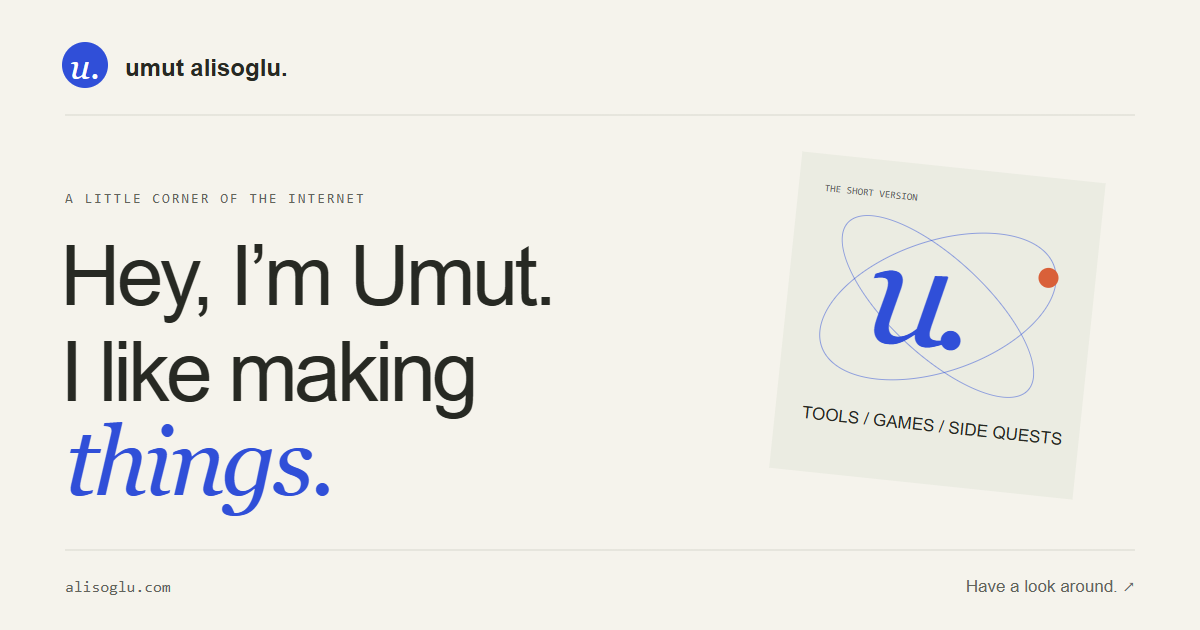
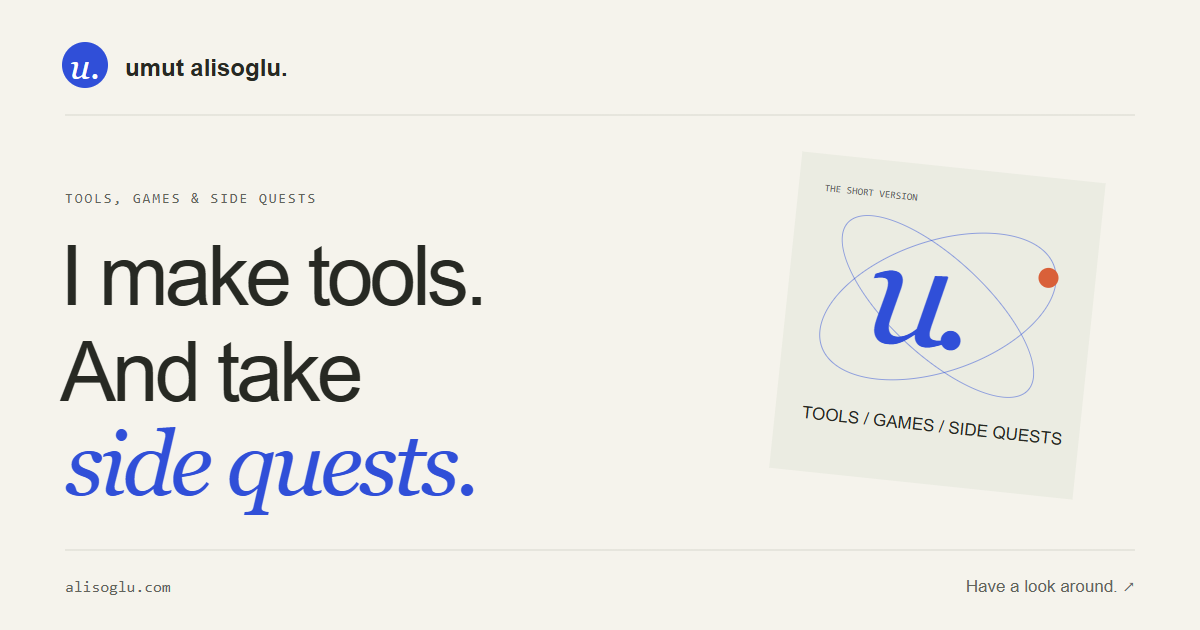
Give the personal site a voice grounded in real projects

diff --git a/index.html b/index.html
@@ -3,13 +3,13 @@
 <head>
   <meta charset="utf-8">
   <meta name="viewport" content="width=device-width,initial-scale=1">
-  <title>Umut Alisoglu — A little corner of the internet</title>
-  <meta name="description" content="Hey, I’m Umut. This is where I keep the tools, games and side projects I’m making. Have a look around.">
+  <title>Umut Alisoglu — Tools, games & side quests</title>
+  <meta name="description" content="I’m Umut Alisoglu. I make FileForge, Repodock and Skate Scape: local file tools, a Windows project launcher and a RuneScape skating fan game.">
   <meta name="theme-color" content="#f5f3ec">
   <link rel="canonical" href="https://alisoglu.com/">
   <meta property="og:type" content="website">
-  <meta property="og:title" content="Umut Alisoglu — A little corner of the internet">
-  <meta property="og:description" content="Tools, games and the occasional side quest. A personal space by Umut Alisoglu.">
+  <meta property="og:title" content="Umut Alisoglu — Tools, games & side quests">
+  <meta property="og:description" content="File tools, local apps and RuneScape on a skateboard. The projects and side quests of Umut Alisoglu.">
   <meta property="og:url" content="https://alisoglu.com/">
   <meta property="og:image" content="https://alisoglu.com/assets/social-card.png">
   <link rel="icon" href="/assets/monogram.svg" type="image/svg+xml">
@@ -21,37 +21,32 @@
   <main id="main" class="wrap personal-main">
     <section class="personal-hero" aria-labelledby="intro-title">
       <div class="personal-intro">
-        <p class="eyebrow"><span class="intro-dot" aria-hidden="true"></span> A LITTLE CORNER OF THE INTERNET</p>
-        <h1 id="intro-title">Hey, I’m Umut.<br>I like making<br><em>things.</em><span class="hello-star" aria-hidden="true">✳</span></h1>
-        <p class="intro-copy">Sometimes a useful tool. Sometimes a game.<br>Usually something I wanted to try.</p>
+        <p class="eyebrow"><span class="intro-dot" aria-hidden="true"></span> UMUT ALISOGLU / TOOLS, GAMES &amp; SIDE QUESTS</p>
+        <h1 id="intro-title">I make tools.<br>And take<br><em>side quests.</em></h1>
+        <p class="intro-copy">Hey, I’m Umut. I make tools for everyday files, a home for local projects, and a fan game that puts a skateboard in RuneScape. That last one took a detour.</p>
         <div class="personal-actions"><a class="button primary" href="#projects">Take a look around <span aria-hidden="true">↓</span></a><a class="text-link" href="/about/">A bit about me <span aria-hidden="true">↗</span></a></div>
       </div>
-      <aside class="desk-note" aria-label="A few things you’ll find here">
-        <div class="note-topline"><span>THE SHORT VERSION</span><span aria-hidden="true">↗</span></div>
-        <div class="orbit-mark" aria-hidden="true"><span>u.</span><i></i><b>hello!</b></div>
-        <p>A few useful things.<br>A few <em>just-because</em> things.</p>
-        <div class="note-bottomline"><span>TOOLS / GAMES / SIDE QUESTS</span><span aria-hidden="true">( + )</span></div>
-      </aside>
+      <figure class="quest-preview"><div class="quest-caption-top"><span>SIDE QUEST / SKATE SCAPE</span><span class="quest-label">Unofficial fan project</span></div><a href="/projects/skate-scape/" class="quest-image-link" aria-label="Meet Skate Scape, my RuneScape skating fan project"><img src="/assets/screenshots/skate-scape.jpg" width="1440" height="900" fetchpriority="high" alt="Skate Scape gameplay: a skater on a board in Lumbridge’s castle courtyard"></a><figcaption><strong>Gielinor. Now with grip tape.</strong><span>RuneScape meets skateboarding. Just because.</span><a href="/skate-scape/">Have a skate <span aria-hidden="true">↗</span></a></figcaption></figure>
     </section>
     <section class="personal-projects" id="projects" aria-labelledby="projects-title">
-      <div class="personal-section-heading"><div><p class="eyebrow">01 / THINGS I’VE BEEN MAKING</p><h2 id="projects-title">Out of my tabs.<br><em>Into yours.</em></h2></div><a class="text-link" href="/projects/">All project details <span aria-hidden="true">↗</span></a></div>
+      <div class="personal-section-heading"><div><p class="eyebrow">01 / THINGS I’VE BEEN MAKING</p><h2 id="projects-title">Three projects.<br><em>Different rabbit holes.</em></h2></div><a class="text-link" href="/projects/">All project details <span aria-hidden="true">↗</span></a></div>
       <div class="personal-project-grid">
         <article class="personal-project">
-          <a class="project-cover cover-fileforge" href="/tools/" aria-label="Try FileForge browser tools"><span class="cover-index">01 / THE USEFUL ONE</span><div class="file-stack" aria-hidden="true"><span class="paper-sheet paper-back">JPG</span><span class="paper-sheet paper-front"><img src="/assets/fileforge.svg" width="52" height="52" alt=""><b>PDF</b><small>all sorted.</small></span><span class="paper-sticker">keep it local ↗</span></div><span class="cover-bottom">FILEFORGE <span aria-hidden="true">↗</span></span></a>
-          <div class="personal-project-meta"><span>BROWSER TOOLS + WINDOWS</span><span>01</span></div><h3><a href="/projects/fileforge/">FileForge <span aria-hidden="true">↗</span></a></h3><p>For the “I just need to convert this file” moments. Images, PDFs and more, right in your browser.</p><a class="text-link" href="/tools/workspace/">Open the workspace →</a>
+          <a class="project-cover cover-fileforge project-cover-real" href="/tools/" aria-label="Try FileForge browser tools"><span class="cover-index">01 / FILES, KEPT LOCAL</span><div class="real-preview-frame"><img src="/assets/screenshots/fileforge.jpg" alt="FileForge’s connected workspace with three sample PDF pages ready to reorder" loading="lazy"></div><span class="cover-bottom">FILEFORGE <span aria-hidden="true">↗</span></span></a>
+          <div class="personal-project-meta"><span>BROWSER TOOLS + WINDOWS</span><span>01</span></div><h3><a href="/projects/fileforge/">FileForge <span aria-hidden="true">↗</span></a></h3><p>PDFs, photos, Word files and slides. The boring file jobs, handled in your browser. Your files stay with you.</p><a class="text-link" href="/tools/workspace/">Open the workspace →</a>
         </article>
         <article class="personal-project">
-          <a class="project-cover cover-repodock" href="/projects/repodock/" aria-label="Explore Repodock"><span class="cover-index">02 / LESS TERMINAL JUGGLING</span><div class="repodock-preview"><img src="/assets/repodock-dashboard.png" alt="Repodock’s dashboard for running local projects" loading="lazy"></div><span class="cover-bottom">REPODOCK <span aria-hidden="true">↗</span></span></a>
-          <div class="personal-project-meta"><span>WINDOWS APP</span><span>02</span></div><h3><a href="/projects/repodock/">Repodock <span aria-hidden="true">↗</span></a></h3><p>One place to run local GitHub projects and see what they’re doing. Fewer terminal windows to lose.</p><a class="text-link" href="/projects/repodock/">Have a closer look →</a>
+          <a class="project-cover cover-repodock" href="/projects/repodock/" aria-label="Explore Repodock"><span class="cover-index">02 / REPOS, READY TO RUN</span><div class="repodock-preview"><img src="/assets/repodock-dashboard.png" alt="Repodock’s dashboard for running local projects" loading="lazy"></div><span class="cover-bottom">REPODOCK <span aria-hidden="true">↗</span></span></a>
+          <div class="personal-project-meta"><span>WINDOWS APP</span><span>02</span></div><h3><a href="/projects/repodock/">Repodock <span aria-hidden="true">↗</span></a></h3><p>Find a GitHub project, give it a home on your desktop, and run it from one dashboard. Made for Windows.</p><a class="text-link" href="/projects/repodock/">Have a closer look →</a>
         </article>
         <article class="personal-project">
-          <a class="project-cover cover-skate" href="/projects/skate-scape/" aria-label="Explore Skate Scape, a fan-made browser game"><span class="cover-index">03 / THE SIDE QUEST</span><div class="skate-drawing" aria-hidden="true"><svg viewBox="0 0 300 200" fill="none"><path d="M20 165H280M38 141H259M66 118H234M101 95H200M150 60L38 184M150 60L262 184M150 60V184" stroke="currentColor" opacity=".18"/><g transform="rotate(-28 150 100)"><rect x="65" y="64" width="175" height="62" rx="31" fill="#ecf3b8" stroke="currentColor" stroke-width="2"/><path d="M99 65V126M206 65V126" stroke="currentColor" stroke-width="2"/><circle cx="103" cy="140" r="10" fill="currentColor"/><circle cx="200" cy="140" r="10" fill="currentColor"/><path d="M103 125V132M200 125V132M140 95H170M155 80V110" stroke="currentColor" stroke-width="3"/></g><path d="M40 63L66 50M36 88L55 80M227 153L252 142" stroke="currentColor" stroke-width="2" stroke-linecap="round"/></svg></div><span class="skate-sticker">just one more run.</span><span class="cover-bottom">SKATE SCAPE <span aria-hidden="true">↗</span></span></a>
-          <div class="personal-project-meta"><span>BROWSER GAME / FAN PROJECT</span><span>03</span></div><h3><a href="/projects/skate-scape/">Skate Scape <span aria-hidden="true">↗</span></a></h3><p>A skating game with tricks, combos and a world to roam. A fan project made for the fun of it. Go have a play.</p><a class="text-link" href="/skate-scape/">Play in your browser →</a>
+          <a class="project-cover cover-skate project-cover-game" href="/projects/skate-scape/" aria-label="Explore Skate Scape, an unofficial fan project"><img src="/assets/screenshots/skate-scape.jpg" width="1440" height="900" loading="lazy" alt="Skating through Lumbridge in Skate Scape"><span class="game-cover-label">03 / GIELINOR, ON A BOARD</span><span class="game-cover-bottom">SKATE SCAPE <span aria-hidden="true">↗</span></span></a>
+          <div class="personal-project-meta"><span>BROWSER GAME / FAN PROJECT</span><span>03</span></div><h3><a href="/projects/skate-scape/">Skate Scape <span aria-hidden="true">↗</span></a></h3><p>Tony Hawk-style tricks in the 2009 RuneScape world. An unofficial fan project with a very different route through Lumbridge.</p><a class="text-link" href="/skate-scape/">Play in your browser →</a>
         </article>
       </div>
     </section>
-    <aside class="personal-tool-note" aria-label="Free browser tools"><div><h2>Small tools. No sign-up.</h2><p>For the file you need to convert, and the data you need to untangle. Everything runs on your device.</p></div><nav aria-label="Document shortcuts"><a href="/tools/word-to-pdf/">Word → PDF ↗</a><a href="/tools/powerpoint-to-pdf/">PowerPoint → PDF ↗</a><a href="/tools/">All free tools →</a></nav></aside><section class="personal-about" id="about" aria-labelledby="about-title"><div><p class="eyebrow">02 / BEHIND THE TABS</p><h2 id="about-title">A place to make<br><em>room for ideas.</em></h2></div><div><p>I’m Umut Alisoglu. This site is a home for the things I’m working on: little fixes for everyday annoyances, apps I want to use, and experiments that got out of hand.</p><p>I like keeping things straightforward. Try something, see what works, make it a little better.</p><a class="text-link" href="/about/">More about me <span aria-hidden="true">↗</span></a></div></section>
-    <section class="personal-contact" aria-labelledby="hello-title"><div><p class="eyebrow">03 / LEAVE A TAB OPEN</p><h2 id="hello-title">Got something<br><em>on your mind?</em></h2><p>An idea, a question, a bug you found. I’d like to hear it.</p></div><a class="hello-link" href="mailto:umut@alisoglu.com">Say hello <span aria-hidden="true">↗</span><small>umut@alisoglu.com</small></a></section>
+    <aside class="personal-tool-note" aria-label="Free browser tools"><div><h2>Small tools. No sign-up.</h2><p>For the file you need to convert, and the data you need to untangle. Everything runs on your device.</p></div><nav aria-label="Document shortcuts"><a href="/tools/word-to-pdf/">Word → PDF ↗</a><a href="/tools/powerpoint-to-pdf/">PowerPoint → PDF ↗</a><a href="/tools/">All free tools →</a></nav></aside><section class="personal-about" id="about" aria-labelledby="about-title"><div><p class="eyebrow">02 / BEHIND THE TABS</p><h2 id="about-title">Fewer clicks.<br><em>More room to play.</em></h2></div><div><p>Sometimes I want fewer clicks. Sometimes I want a skateboard in RuneScape. Both end up here.</p><p>I keep the useful stuff easy to find and leave room for the projects that are just for fun. You can try the tools, play the game, or have a look through the code.</p><a class="text-link" href="/about/">More about me <span aria-hidden="true">↗</span></a></div></section>
+    <section class="personal-contact" aria-labelledby="hello-title"><div><p class="eyebrow">03 / SAY HELLO</p><h2 id="hello-title">Got something<br><em>on your mind?</em></h2><p>An idea, a question, a bug you found. I’d like to hear it.</p></div><a class="hello-link" href="mailto:umut@alisoglu.com">Say hello <span aria-hidden="true">↗</span><small>umut@alisoglu.com</small></a></section>
   </main>
   <site-footer></site-footer>
 </body>

diff --git a/src/site/personal.css b/src/site/personal.css
@@ -114,4 +114,38 @@
 @media(max-width:1000px){.hub-header nav{gap:18px}.personal-hero{gap:35px}.personal-main h1{font-size:73px}.hello-star{font-size:76px;margin-left:10px}.desk-note{padding-inline:20px}.orbit-mark:before{width:190px}.orbit-mark:after{width:200px}.orbit-mark i{right:9px}.personal-project-grid{gap:20px}.project-cover{height:250px}.cover-index{font-size:7px;left:15px;right:15px}.personal-project-meta{font-size:7px}.personal-about{gap:50px}}
 @media(max-width:760px){.wrap{width:calc(100% - 48px)}.hub-header{padding-block:20px;gap:20px}.hub-header nav{width:100%;margin:0;gap:20px;justify-content:flex-start}.hub-header nav a{font-size:12px}.personal-hero{grid-template-columns:1.3fr 1fr;gap:25px;padding:62px 0 65px}.personal-main h1{font-size:61px;letter-spacing:-3.8px}.personal-main h1 em{letter-spacing:-3px}.hello-star{font-size:58px;margin-left:12px}.personal-main .eyebrow{font-size:8px;letter-spacing:.6px}.intro-copy{font-size:14px}.desk-note{padding:18px 16px;margin-right:4px}.desk-note>p{font-size:20px}.note-topline{font-size:7px}.note-bottomline{font-size:7px;letter-spacing:0}.orbit-mark{height:165px}.orbit-mark>span{font-size:125px}.orbit-mark:before{width:150px;height:100px}.orbit-mark:after{width:170px;height:80px}.orbit-mark i{right:0;top:50px;width:11px;height:11px}.orbit-mark b{font-size:20px;bottom:7px}.personal-actions{gap:18px}.personal-project-grid{grid-template-columns:1fr;gap:36px}.project-cover{height:300px}.file-stack{inset:50px 0}.paper-sheet{width:130px;height:165px}.paper-sticker{right:20%;bottom:5px}.repodock-preview{top:62px;left:11%;width:85%;height:195px}.skate-drawing{inset:35px 15% 30px}.skate-sticker{right:16%;bottom:53px}.cover-index{font-size:9px;left:23px;right:23px}.cover-bottom{left:23px;right:23px}.personal-project-meta{font-size:8px;margin-top:17px}.personal-project>p{max-width:510px}.personal-projects{padding-block:35px 45px}.personal-section-heading{gap:20px}.personal-about{gap:30px;padding-block:43px}.personal-about>div>p:not(.eyebrow){font-size:14px}.personal-contact{padding-block:40px;gap:30px}.hello-link{font-size:32px;min-width:200px}.hello-link>span{margin-left:30px}.about-intro{padding-block:60px;gap:25px}.about-intro h1{font-size:54px;letter-spacing:-3.5px}.about-initial{font-size:125px;width:170px;height:170px}.new-footer{grid-template-columns:1fr;gap:25px}.new-footer>div{justify-content:flex-start;gap:12px 23px}}
 @media(max-width:540px){.hub-header .wordmark{font-size:19px}.hub-header nav{gap:15px 21px}.hub-header nav a{font-size:11px}.hub-header .nav-contact{margin-left:auto}.personal-hero{grid-template-columns:1fr;padding-top:42px;gap:40px}.personal-main h1{font-size:clamp(57px,12.5vw,72px)}.personal-main .eyebrow{margin-bottom:22px}.intro-copy{margin-block:23px}.personal-actions{gap:22px}.personal-actions .button{padding:12px 15px;gap:16px}.personal-main .text-link{font-size:11px;gap:8px}.desk-note{width:min(100% - 12px,350px);margin:0 auto;padding:21px 25px}.orbit-mark{height:150px}.orbit-mark:before{width:200px;height:95px}.orbit-mark:after{width:210px;height:85px}.orbit-mark>span{font-size:127px}.orbit-mark i{right:25px;top:46px}.orbit-mark b{left:15px}.desk-note>p{font-size:23px;margin:14px 0 20px}.note-topline{font-size:8px}.note-bottomline{font-size:8px}.personal-section-heading{align-items:start;flex-direction:column;gap:20px;margin-bottom:26px}.personal-main h2{font-size:36px}.personal-section-heading .eyebrow{margin-bottom:15px}.project-cover{height:275px}.paper-sticker{right:8%}.repodock-preview{left:9%;top:61px;height:171px;width:100%}.skate-drawing{inset:35px 5% 30px}.personal-about{grid-template-columns:1fr;gap:25px}.personal-contact{flex-direction:column;align-items:flex-start;gap:23px}.hello-link{font-size:36px;min-width:230px;margin:0 0 5px}.about-intro{grid-template-columns:1fr;padding-block:45px;gap:35px}.about-intro h1{font-size:clamp(46px,10vw,61px);letter-spacing:-3px}.about-margin{display:flex;gap:25px;text-align:left;align-items:center;transform:none}.about-initial{font-size:75px;letter-spacing:-7px;width:100px;height:100px;flex-shrink:0;padding:5px 10px 0 0;text-align:center;transform:rotate(-8deg)}.about-margin p{margin:0}.about-margin p span{font-size:9px}.personal-about-page .project-row{grid-template-columns:46px minmax(0,1fr) 18px;gap:15px;padding-inline:0}.personal-about-page .project-mini{height:46px;font-size:30px}.personal-about-page .project-mini img{width:29px;height:29px}.personal-about-page .project-row h3{font-size:22px}.personal-about-page .project-row p{font-size:12px}.personal-about-page .project-label{font-size:8px}.new-footer .footer-note{flex-wrap:wrap}}
-@media(prefers-reduced-motion:reduce){html{scroll-behavior:auto}.project-cover,.hello-link>span,.button{transition:none}.project-cover:hover,.button:hover,.hello-link:hover>span{transform:none}}
+/* Personal pages: actual project work, rather than a decorative stand-in. */
+.personal-hero{grid-template-columns:minmax(0,1.1fr) minmax(0,1fr);gap:64px;padding-block:76px 78px}
+.personal-home .personal-main h1{font-size:clamp(62px,6.1vw,84px);letter-spacing:-4.6px;line-height:1.04}
+.personal-home .intro-copy{max-width:450px;line-height:1.85;margin-block:25px;font-size:15px}
+.quest-preview{min-width:0;margin:10px 0 0;transform:rotate(1.5deg);border:1px solid #c7c9bb;border-radius:4px;background:#eeeee5;box-shadow:5px 6px 0 #d9dccd;padding:16px}
+.quest-caption-top{display:flex;align-items:center;justify-content:space-between;gap:12px;font:9px/1.6 var(--mono);color:#4c5548;margin-bottom:14px;letter-spacing:.45px}
+.quest-label{font-size:8px;letter-spacing:0;border:1px solid #c7cebb;border-radius:3px;padding:4px 6px;white-space:nowrap}
+.quest-image-link{display:block;overflow:hidden;background:#203b30}
+.quest-image-link img{display:block;width:100%;height:auto;aspect-ratio:1.5;object-fit:cover}
+.quest-preview figcaption{padding:17px 3px 3px;display:grid;grid-template-columns:1fr auto;gap:6px 15px;align-items:start}
+.quest-preview figcaption strong{font:500 20px/1.25 var(--sans);letter-spacing:-.6px;grid-column:1/-1}
+.quest-preview figcaption>span{font-size:11px;line-height:1.7;color:var(--muted)}
+.quest-preview figcaption>a{font-size:11px;font-weight:600;display:inline-flex;align-items:center;gap:9px;white-space:nowrap}
+.quest-preview a:hover{color:var(--accent)}
+.project-cover-real .real-preview-frame{position:absolute;inset:52px 20px 47px;overflow:hidden;border:5px solid #fafbf6;border-radius:3px;box-shadow:2px 5px 15px #34463015;transform:rotate(-4deg);background:white}
+.real-preview-frame img{display:block;width:100%;height:100%;object-fit:cover;object-position:center 46%}
+.project-cover-game>img{display:block;width:100%;height:100%;object-fit:cover;object-position:50% 50%;transition:transform .25s}
+.project-cover-game:hover>img{transform:scale(1.025)}
+.game-cover-label,.game-cover-bottom{position:absolute;left:17px;right:17px;color:#fffef3;font:9px/1.7 var(--mono);letter-spacing:.6px;text-shadow:0 1px 3px #000}
+.game-cover-label{top:17px;background:#173b31dc;padding:6px 9px;width:fit-content;max-width:calc(100% - 34px)}
+.game-cover-bottom{bottom:17px;display:flex;justify-content:space-between;align-items:center;background:#173b31dc;padding:8px 10px}
+.game-cover-bottom>span{font-size:20px;line-height:1}
+.personal-project-meta{font-size:9px;letter-spacing:.4px}.cover-index{font-size:9px}.personal-project>p{font-size:14px;line-height:1.8}.personal-project>.text-link{font-size:12px}
+.personal-main .eyebrow{font-size:10px;letter-spacing:.7px}.new-footer .footer-note{font-size:10px}.hub-header .wordmark small{font-size:10px}
+.about-profile-links{padding:28px;background:#ebece2;border:1px solid #d9dccd;border-radius:4px;align-self:center;max-width:360px;margin-left:auto;width:100%}
+.profile-handle{display:inline-block;color:var(--accent);font:italic 72px/1 Georgia,serif;letter-spacing:-7px;margin-bottom:16px}
+.about-profile-links>p{font-size:19px;letter-spacing:-.3px;line-height:1.5;margin:0 0 22px}
+.about-profile-links>p>span{display:block;font-size:12px;color:var(--muted);letter-spacing:0;margin-top:3px}
+.about-profile-links>a{display:flex;justify-content:space-between;gap:15px;align-items:center;font-size:11px;padding:13px 0;border-top:1px solid #cfd2c3}
+.about-profile-links>a>span{color:var(--muted);overflow-wrap:anywhere;text-align:right}.about-profile-links>a:hover,.about-profile-links>a:hover>span{color:var(--accent)}
+.real-game-shot{margin:0;min-width:0}.real-game-shot img{display:block;width:100%;height:auto}.real-game-shot figcaption{font-size:10px;line-height:1.7;color:var(--muted);padding:11px 12px}
+@media(max-width:1000px){.personal-hero{gap:35px}.personal-home .personal-main h1{font-size:70px}.quest-preview{padding:12px}.quest-caption-top{font-size:8px;letter-spacing:0}.quest-label{font-size:7px}.quest-preview figcaption strong{font-size:18px}.quest-preview figcaption{grid-template-columns:1fr}.quest-preview figcaption strong{grid-column:auto}.quest-preview figcaption>a{margin-top:7px}.personal-project-meta{font-size:8px}}
+@media(max-width:760px){.personal-hero{grid-template-columns:1.15fr 1fr;gap:28px;padding-block:53px 60px}.personal-home .personal-main h1{font-size:59px;letter-spacing:-3.5px}.personal-home .intro-copy{font-size:14px}.quest-caption-top{flex-wrap:wrap;gap:8px}.quest-preview figcaption strong{font-size:18px}.quest-preview figcaption>span{font-size:11px}.quest-image-link img{aspect-ratio:1.15}.personal-main .eyebrow{font-size:9px}.about-profile-links{padding:23px}.personal-project-meta{font-size:9px}.cover-index{font-size:9px}}
+@media(max-width:540px){.personal-hero{grid-template-columns:1fr;gap:36px;padding-block:40px 50px}.personal-home .personal-main h1{font-size:clamp(56px,12.5vw,70px);letter-spacing:-3.5px}.personal-home .intro-copy{max-width:380px;font-size:15px}.quest-preview{margin:0 4px 0 0;padding:13px;transform:rotate(1deg)}.quest-caption-top{font-size:9px;flex-wrap:nowrap}.quest-label{font-size:7px}.quest-image-link img{aspect-ratio:1.5}.quest-preview figcaption strong{font-size:20px}.quest-preview figcaption{padding:16px 2px 3px;gap:7px}.quest-preview figcaption>a{margin-top:4px}.about-profile-links{margin:0;max-width:none}.profile-handle{font-size:59px;margin-bottom:10px}.personal-project>p{font-size:14px}}
+@media(prefers-reduced-motion:reduce){html{scroll-behavior:auto}.project-cover,.hello-link>span,.button,.project-cover-game>img{transition:none}.project-cover:hover,.button:hover,.hello-link:hover>span,.project-cover-game:hover>img{transform:none}}

diff --git a/about/index.html b/about/index.html
@@ -4,12 +4,12 @@
   <meta charset="utf-8">
   <meta name="viewport" content="width=device-width,initial-scale=1">
   <title>A bit about me — Umut Alisoglu</title>
-  <meta name="description" content="I’m Umut. I make browser tools, Windows apps and the occasional game. Here’s a little about the projects and the person behind them.">
+  <meta name="description" content="I’m Umut Alisoglu, the person behind FileForge, Repodock and Skate Scape. Local file tools, Windows apps and a RuneScape skating fan project.">
   <meta name="theme-color" content="#f5f3ec">
   <link rel="canonical" href="https://alisoglu.com/about/">
   <meta property="og:type" content="profile">
   <meta property="og:title" content="A bit about me — Umut Alisoglu">
-  <meta property="og:description" content="Tools, games and the occasional side quest. A little about the person behind alisoglu.com.">
+  <meta property="og:description" content="FileForge, Repodock, and a skateboard in Gielinor. A little about Umut Alisoglu and his projects.">
   <meta property="og:url" content="https://alisoglu.com/about/">
   <meta property="og:image" content="https://alisoglu.com/assets/social-card.png">
   <link rel="icon" href="/assets/monogram.svg" type="image/svg+xml">
@@ -19,9 +19,9 @@
 <body class="personal-about-page">
   <site-header></site-header>
   <main id="main" class="wrap personal-main">
-    <section class="about-intro" aria-labelledby="about-title"><div><p class="eyebrow">A BIT ABOUT ME</p><h1 id="about-title">Curiosity.<br>A few open tabs.<br><em>That’s the start.</em></h1></div><div class="about-margin"><span class="about-initial" aria-hidden="true">u.</span><p>Umut Alisoglu<br><span>The person behind this little corner.</span></p></div></section>
-    <section class="personal-about about-story" aria-labelledby="story-title"><div><p class="eyebrow">HELLO AGAIN</p><h2 id="story-title">I’m Umut.<br><em>I make stuff.</em></h2></div><div><p>Mostly software. Tools for files, apps for the desktop, and sometimes a game. This website gives those projects somewhere to live.</p><p>A lot of them start with a small annoyance. Converting a file shouldn’t mean sending it to a random website. Running a project shouldn’t mean hunting through terminal windows. And sometimes, I just want to see if an idea could be fun.</p><p>I like things that are easy to pick up and don’t get in the way. That’s what I’m aiming for here, too.</p></div></section>
-    <section class="about-project-list" id="work" aria-labelledby="work-title"><div class="personal-section-heading"><div><p class="eyebrow">WHAT THAT LOOKS LIKE</p><h2 id="work-title">Three different<br><em>rabbit holes.</em></h2></div><a class="text-link" href="/projects/">Project details ↗</a></div><div class="project-rows"><a class="project-row" href="/projects/fileforge/"><span class="project-mini tone-purple"><img src="/assets/fileforge.svg" width="38" height="38" alt=""></span><span><span class="project-label">FILES, SORTED</span><h3>FileForge</h3><p>Browser tools for images, PDFs, video and text, plus a Windows app.</p></span><span class="row-arrow" aria-hidden="true">↗</span></a><a class="project-row" href="/projects/repodock/"><span class="project-mini tone-blue" aria-hidden="true">r.</span><span><span class="project-label">A HOME FOR LOCAL PROJECTS</span><h3>Repodock</h3><p>A Windows dashboard for launching GitHub projects and keeping an eye on their logs.</p></span><span class="row-arrow" aria-hidden="true">↗</span></a><a class="project-row" href="/projects/skate-scape/"><span class="project-mini tone-mint" aria-hidden="true">↗</span><span><span class="project-label">JUST FOR THE FUN OF IT</span><h3>Skate Scape</h3><p>A browser skating game. Fan project, with plenty still to try.</p></span><span class="row-arrow" aria-hidden="true">↗</span></a></div></section>
+    <section class="about-intro" aria-labelledby="about-title"><div><p class="eyebrow">A BIT ABOUT ME</p><h1 id="about-title">Useful tools.<br>A fan game.<br><em>Whatever’s next.</em></h1></div><aside class="about-profile-links" aria-label="Find me online"><span class="profile-handle">u.</span><p>Umut Alisoglu<span>Tools, games &amp; side quests.</span></p><a href="https://github.com/UmutAlisoglu">GitHub <span>@UmutAlisoglu ↗</span></a><a href="mailto:umut@alisoglu.com">Email <span>umut@alisoglu.com ↗</span></a></aside></section>
+    <section class="personal-about about-story" aria-labelledby="story-title"><div><p class="eyebrow">HELLO AGAIN</p><h2 id="story-title">I’m Umut.<br><em>I make stuff.</em></h2></div><div><p>I’m the person behind FileForge, Repodock and Skate Scape. Two practical projects and one very particular idea: what if you could skate around the RuneScape world?</p><p>FileForge is for the everyday file jobs: convert something, sort some pages, move on. Repodock gives GitHub projects a local dashboard. Skate Scape takes Tony Hawk-style tricks into 2009 Gielinor. It’s an unofficial fan project, made for the fun of it.</p><p>The browser tools run on your device, without an account or file upload. The desktop apps have public source and downloads. This site keeps the projects together, with enough detail to get started.</p></div></section>
+    <section class="about-project-list" id="work" aria-labelledby="work-title"><div class="personal-section-heading"><div><p class="eyebrow">WHAT THAT LOOKS LIKE</p><h2 id="work-title">Three different<br><em>rabbit holes.</em></h2></div><a class="text-link" href="/projects/">Project details ↗</a></div><div class="project-rows"><a class="project-row" href="/projects/fileforge/"><span class="project-mini tone-purple"><img src="/assets/fileforge.svg" width="38" height="38" alt=""></span><span><span class="project-label">FILES, SORTED</span><h3>FileForge</h3><p>Browser tools for images, PDFs, video and text, plus a Windows app.</p></span><span class="row-arrow" aria-hidden="true">↗</span></a><a class="project-row" href="/projects/repodock/"><span class="project-mini tone-blue" aria-hidden="true">r.</span><span><span class="project-label">A HOME FOR LOCAL PROJECTS</span><h3>Repodock</h3><p>A Windows dashboard for launching GitHub projects and keeping an eye on their logs.</p></span><span class="row-arrow" aria-hidden="true">↗</span></a><a class="project-row" href="/projects/skate-scape/"><span class="project-mini tone-mint" aria-hidden="true">↗</span><span><span class="project-label">JUST FOR THE FUN OF IT</span><h3>Skate Scape</h3><p>Tony Hawk-style tricks in the 2009 RuneScape world. An unofficial fan project.</p></span><span class="row-arrow" aria-hidden="true">↗</span></a></div></section>
     <section class="personal-contact" id="contact" aria-labelledby="hello-title"><div><p class="eyebrow">KEEP IN TOUCH</p><h2 id="hello-title">Always room for<br><em>a conversation.</em></h2><p>You can find the code on <a class="text-link" href="https://github.com/UmutAlisoglu">GitHub ↗</a>, or drop me an email.</p></div><a class="hello-link" href="mailto:umut@alisoglu.com">Say hello <span aria-hidden="true">↗</span><small>umut@alisoglu.com</small></a></section>
   </main>
   <site-footer></site-footer>

diff --git a/projects/skate-scape/index.html b/projects/skate-scape/index.html
@@ -21,7 +21,7 @@
   <site-header></site-header>
   <main id="main" class="wrap project-page">
   <div class="breadcrumbs"><a href="/projects/">Projects</a><span aria-hidden="true">/</span><span>Skate Scape</span></div>
-  <section class="project-hero"><div><p class="eyebrow">BROWSER GAME / FAN PROJECT</p><h1>Skate Scape<span class="accent-dot">.</span><br><em>Find your line.</em></h1><p>An unofficial fan-made skateboarding game built around movement, tricks and the urge to try one more line. Play it in your browser.</p><span class="development-badge">Fan project · best on a computer</span><div class="hero-actions game-launch"><a class="button primary" href="/skate-scape/">Play Skate Scape ↗</a><a class="quiet-link" href="https://github.com/UmutAlisoglu/skate-scape">Code & issues ↗</a></div></div><div class="skate-illustration" role="img" aria-label="Project illustration of a skateboard over a purple ramp; not a gameplay screenshot"><span class="art-label">SKATE SCAPE / FAN PROJECT</span><span class="skate-orbit" aria-hidden="true">✳</span><div class="skate-ramp" aria-hidden="true"></div><div class="skateboard" aria-hidden="true"><span></span><i></i><i></i></div><strong>One more<br><em>try.</em></strong><span class="art-bottom">PROJECT ILLUSTRATION · UNOFFICIAL FAN PROJECT</span></div></section>
+  <section class="project-hero"><div><p class="eyebrow">BROWSER GAME / FAN PROJECT</p><h1>Skate Scape<span class="accent-dot">.</span><br><em>Find your line.</em></h1><p>An unofficial fan-made skateboarding game built around movement, tricks and the urge to try one more line. Play it in your browser.</p><span class="development-badge">Fan project · best on a computer</span><div class="hero-actions game-launch"><a class="button primary" href="/skate-scape/">Play Skate Scape ↗</a><a class="quiet-link" href="https://github.com/UmutAlisoglu/skate-scape">Code & issues ↗</a></div></div><figure class="project-screenshot real-game-shot"><a href="/skate-scape/" aria-label="Play Skate Scape"><img src="/assets/screenshots/skate-scape.jpg" width="1440" height="900" alt="Actual Skate Scape gameplay in Lumbridge’s castle courtyard" loading="lazy"></a><figcaption>Actual gameplay · Skate Scape is an unofficial fan project.</figcaption></figure></section>
   <div class="project-facts"><span><strong>Play with</strong>Keyboard or a standard gamepad</span><span><strong>First visit</strong>About 95 MB of game data</span><span><strong>Status</strong>Unofficial fan project</span></div>
   <section class="story-section"><div><p class="eyebrow">THE IDEA</p><h2>A place to explore.<br>A reason to try again.</h2></div><div><p>Skate Scape combines an open 3D world with flips, grabs, grinds, manuals and trick combinations. Drop obstacles, set a session marker, try challenges and find a new line.</p><p>The game lives in its own repository. It’s a personal fan project, made for the fun of exploring a familiar world on a skateboard.</p><p>It is an unofficial fan project. <a class="text-link" href="https://github.com/UmutAlisoglu/skate-scape/blob/main/NOTICE.md">See the project’s credits and notices ↗</a></p></div></section>
   <section class="release-panel"><div><p class="eyebrow">BEFORE YOU ROLL</p><h2>Give the world a moment.</h2><p>Use Chrome, Edge or Firefox on a computer. The first visit downloads about 95 MB from the 2009scape project on GitLab and builds the world on your device. Loading time depends on your connection and computer.</p><p>The game caches data locally for later visits and saves progress in the browser. Clearing this site’s browser data can remove both cached game data and progress.</p><a class="text-link" href="https://github.com/UmutAlisoglu/skate-scape#play-it">Current loading & setup notes ↗</a></div><div><h2>The first few moves.</h2><dl class="controls-list"><div><dt>W / S / A, D</dt><dd>Push, brake and steer</dd></div><div><dt>Space</dt><dd>Ollie; hold to charge</dd></div><div><dt>Q / E / C</dt><dd>Flip, shove-it and grab tricks in the air</dd></div><div><dt>T / Tab</dt><dd>Teleport menu / world map</dd></div><div><dt>Escape / H</dt><dd>Pause / help</dd></div></dl><a class="text-link" href="https://github.com/UmutAlisoglu/skate-scape/blob/main/docs/GAMEPLAY.md">Full controls & gameplay guide ↗</a></div></section>

diff --git a/games/index.html b/games/index.html
@@ -19,7 +19,7 @@
 </head>
 <body>
   <site-header></site-header>
-  <main id="main" class="wrap directory-page"><div class="page-intro"><p class="eyebrow">ROOM FOR A LITTLE PLAY</p><h1>Serious about<br><em>having some fun.</em></h1><p>An unofficial fan skating project and a tiny idea experiment. Pick something playful and give it a go.</p></div><div class="games-feature"><div><div class="skate-illustration" role="img" aria-label="Project illustration of a skateboard over a purple ramp; not a gameplay screenshot"><span class="art-label">SKATE SCAPE / FAN PROJECT</span><span class="skate-orbit" aria-hidden="true">✳</span><div class="skate-ramp" aria-hidden="true"></div><div class="skateboard" aria-hidden="true"><span></span><i></i><i></i></div><strong>One more<br><em>try.</em></strong><span class="art-bottom">PROJECT ILLUSTRATION · UNOFFICIAL FAN PROJECT</span></div></div><div><span class="development-badge">Fan project · best on desktop</span><h2>Skate Scape</h2><p>An arcade skating game with tricks, combos and places to explore. Play on a computer with a keyboard or gamepad. The first visit downloads about 95 MB of game data and builds the world in your browser.</p><div class="hero-actions"><a class="button primary" href="/skate-scape/">Play Skate Scape ↗</a><a class="text-link" href="/projects/skate-scape/">Guide & project details →</a></div></div></div><section class="workshop-note"><div><p class="eyebrow">PLAY WITH AN IDEA</p><h2>An annoyance today. An app tomorrow.</h2><p>The idea machine turns an everyday frustration into a starting prompt. It runs locally, with no account or AI service call.</p><a class="text-link" href="/idea-machine/">Give it a spin →</a></div></section></main>
+  <main id="main" class="wrap directory-page"><div class="page-intro"><p class="eyebrow">ROOM FOR A LITTLE PLAY</p><h1>Serious about<br><em>having some fun.</em></h1><p>An unofficial fan skating project and a tiny idea experiment. Pick something playful and give it a go.</p></div><div class="games-feature"><div><figure class="project-screenshot real-game-shot"><a href="/skate-scape/" aria-label="Play Skate Scape"><img src="/assets/screenshots/skate-scape.jpg" width="1440" height="900" alt="Actual Skate Scape gameplay in Lumbridge’s castle courtyard" loading="lazy"></a><figcaption>Actual gameplay · Skate Scape is an unofficial fan project.</figcaption></figure></div><div><span class="development-badge">Fan project · best on desktop</span><h2>Skate Scape</h2><p>An arcade skating game with tricks, combos and places to explore. Play on a computer with a keyboard or gamepad. The first visit downloads about 95 MB of game data and builds the world in your browser.</p><div class="hero-actions"><a class="button primary" href="/skate-scape/">Play Skate Scape ↗</a><a class="text-link" href="/projects/skate-scape/">Guide & project details →</a></div></div></div><section class="workshop-note"><div><p class="eyebrow">PLAY WITH AN IDEA</p><h2>An annoyance today. An app tomorrow.</h2><p>The idea machine turns an everyday frustration into a starting prompt. It runs locally, with no account or AI service call.</p><a class="text-link" href="/idea-machine/">Give it a spin →</a></div></section></main>
   <site-footer></site-footer>
 </body>
 </html>

diff --git a/src/site/templates.js b/src/site/templates.js
@@ -16,11 +16,11 @@ function header(path) {
   const finder = path.startsWith('/tools/') ? '<button type="button" class="tool-switcher-trigger" data-open-tools hidden aria-haspopup="dialog" title="Find a tool (Ctrl or Command + K)">Find a tool</button>' : '';
   return `<a class="skip-link" href="#main">Skip to content</a>
 <header class="site-header wrap hub-header">
-  <a class="wordmark" href="/" aria-label="Umut Alisoglu home"><span class="monogram">u.</span><span>umut alisoglu<span class="wordmark-dot">.</span><small>my little corner of the internet</small></span></a>
+  <a class="wordmark" href="/" aria-label="Umut Alisoglu home"><span class="monogram">u.</span><span>umut alisoglu<span class="wordmark-dot">.</span><small>tools, games &amp; whatever’s next</small></span></a>
   <nav aria-label="Main navigation">${navigation.map(([href, label]) => `<a href="${href}"${(href === '/' ? path === '/' : path.startsWith(href)) ? ` aria-current="${path === href ? 'page' : 'true'}"` : ''}>${label}</a>`).join('')}${finder}<a href="/contact/" class="nav-contact"${path === '/contact/' ? ' aria-current="page"' : ''}>Say hello <span aria-hidden="true">↗</span></a></nav>
 </header>`;
 }
-const footer = `<footer class="site-footer wrap new-footer"><a class="footer-brand" href="/">umut alisoglu<span>.</span><small>Thanks for stopping by.</small></a><div><a href="/about/">About me</a><a href="/contact/">Contact & feedback</a><a href="/tools/workspace/">FileForge workspace</a><a href="/downloads/">Downloads</a><a href="/games/">Games</a><a href="/idea-machine/">Idea machine</a><button type="button" data-open-offline class="footer-offline">Offline tools</button><a href="/privacy/">Privacy</a><a href="/THIRD_PARTY_NOTICES.md">Credits</a></div><p class="footer-note"><span>A work in progress, as most good things are.</span><a href="https://github.com/UmutAlisoglu/umutalisoglu.github.io">This site on GitHub ↗</a></p></footer>`;
+const footer = `<footer class="site-footer wrap new-footer"><a class="footer-brand" href="/">umut alisoglu<span>.</span><small>Thanks for stopping by.</small></a><div><a href="/about/">About me</a><a href="/contact/">Contact & feedback</a><a href="/tools/workspace/">FileForge workspace</a><a href="/downloads/">Downloads</a><a href="/games/">Games</a><a href="/idea-machine/">Idea machine</a><button type="button" data-open-offline class="footer-offline">Offline tools</button><a href="/privacy/">Privacy</a><a href="/THIRD_PARTY_NOTICES.md">Credits</a></div><p class="footer-note"><span>Made for using. And a bit of messing around.</span><a href="https://github.com/UmutAlisoglu/umutalisoglu.github.io">This site on GitHub ↗</a></p></footer>`;
 
 // Vite expands these fragments into ordinary HTML, before bundling scripts and styles.
 // Visitors receive the complete page; shared navigation needs no JavaScript.

diff --git a/src/site/discovery.js b/src/site/discovery.js
@@ -3,7 +3,7 @@ export function discoveryTags(path) {
   const url = `https://alisoglu.com${path}`;
   const tool = allToolPages.find(tool => path === `/tools/${tool.slug}/`);
   const person = { '@type': 'Person', '@id': 'https://alisoglu.com/#umut', name: 'Umut Alisoglu', url: 'https://alisoglu.com/about/', sameAs: ['https://github.com/UmutAlisoglu'] };
-  const site = { '@type': 'WebSite', '@id': 'https://alisoglu.com/#website', name: 'Umut Alisoglu', url: 'https://alisoglu.com/', author: { '@id': person['@id'] }, description: 'Personal projects, free browser tools and a fan-made skating game.' };
+  const site = { '@type': 'WebSite', '@id': 'https://alisoglu.com/#website', name: 'Umut Alisoglu', url: 'https://alisoglu.com/', author: { '@id': person['@id'] }, description: 'FileForge local file tools, Repodock for Windows, and Skate Scape, an unofficial RuneScape skating fan project.' };
   const graph = [person, site];
   if (tool) {
     graph.push({ '@type': 'WebApplication', name: `${tool.name} — FileForge`, url, description: tool.description, applicationCategory: 'UtilitiesApplication', operatingSystem: 'Any modern browser', browserRequirements: 'JavaScript enabled', isAccessibleForFree: true, offers: { '@type': 'Offer', price: '0', priceCurrency: 'USD' }, author: { '@id': person['@id'] }, featureList: ['Runs on your device', 'No file uploads', 'No account required', 'No saved conversion history'] });

diff --git a/THIRD_PARTY_NOTICES.md b/THIRD_PARTY_NOTICES.md
@@ -1,5 +1,7 @@
 # Open-source credits
 
+The Skate Scape gameplay screenshot is a browser capture of an unofficial fan project. RuneScape and its game imagery belong to Jagex Ltd; Skate Scape is not affiliated with or endorsed by Jagex. See [screenshot notes](https://alisoglu.com/assets/screenshots/README.md) and the [game’s notices](https://github.com/UmutAlisoglu/skate-scape/blob/main/NOTICE.md).
+
 Document tools also bundle **docx-preview 0.4.1** (Apache-2.0), **@aiden0z/pptx-renderer 1.4.0** (Apache-2.0), **html2canvas 1.4.1** (MIT), **JSZip 3.10.2** (MIT/GPL dual license; used under MIT), **ECharts 6.1.0** (Apache-2.0), **zrender 6.1.0** (BSD-3-Clause), and **mtx-decompressor 1.8.0** (MPL-2.0). License copies are in `/licenses/`; the upstream PowerPoint renderer notices and ECMA-derived geometry notices are included there too. This build resolves the external decompressor to 1.8.0; the upstream notice describes its older bundled distribution. The unmodified MPL-covered source for this build is available at https://github.com/ChristopherVR/mtx-decompressor/tree/v1.8.0 and https://github.com/ChristopherVR/mtx-decompressor/archive/refs/tags/v1.8.0.tar.gz . These licenses apply to their respective components, not visitor documents.
 
 The website runs file conversions on the visitor's device. The following libraries and font are distributed with its browser build:

diff --git a/assets/screenshots/README.md b/assets/screenshots/README.md
@@ -1,0 +1,7 @@
+# Project screenshots
+
+`skate-scape.jpg` is an actual browser capture of Skate Scape in Lumbridge, taken on 22 October 2026. It shows the unofficial fan project running at `https://alisoglu.com/skate-scape/`. RuneScape and its game imagery belong to Jagex Ltd; this project is not affiliated with or endorsed by Jagex. See the [game’s notices](https://github.com/UmutAlisoglu/skate-scape/blob/main/NOTICE.md).
+
+`fileforge.jpg` is an actual capture of FileForge’s connected browser workspace using the original, locally generated three-page PDF sample. It contains no visitor documents or private files.
+
+The Repodock dashboard image at `../repodock-dashboard.png` comes from that project’s public documentation. These screenshots show the projects themselves; they are not mockups or personal photographs.

diff --git a/README.md b/README.md
@@ -1,6 +1,6 @@
 # Hey, I’m Umut.
 
-This is the source for [alisoglu.com](https://alisoglu.com/), my little corner of the internet. A home for the tools, games and side projects I’m making.
+This is the source for [alisoglu.com](https://alisoglu.com/), my little corner of the internet. File tools that stay local, a Windows home for GitHub projects, and a fan game that puts a skateboard in RuneScape.
 
 ## Have a look around
 
